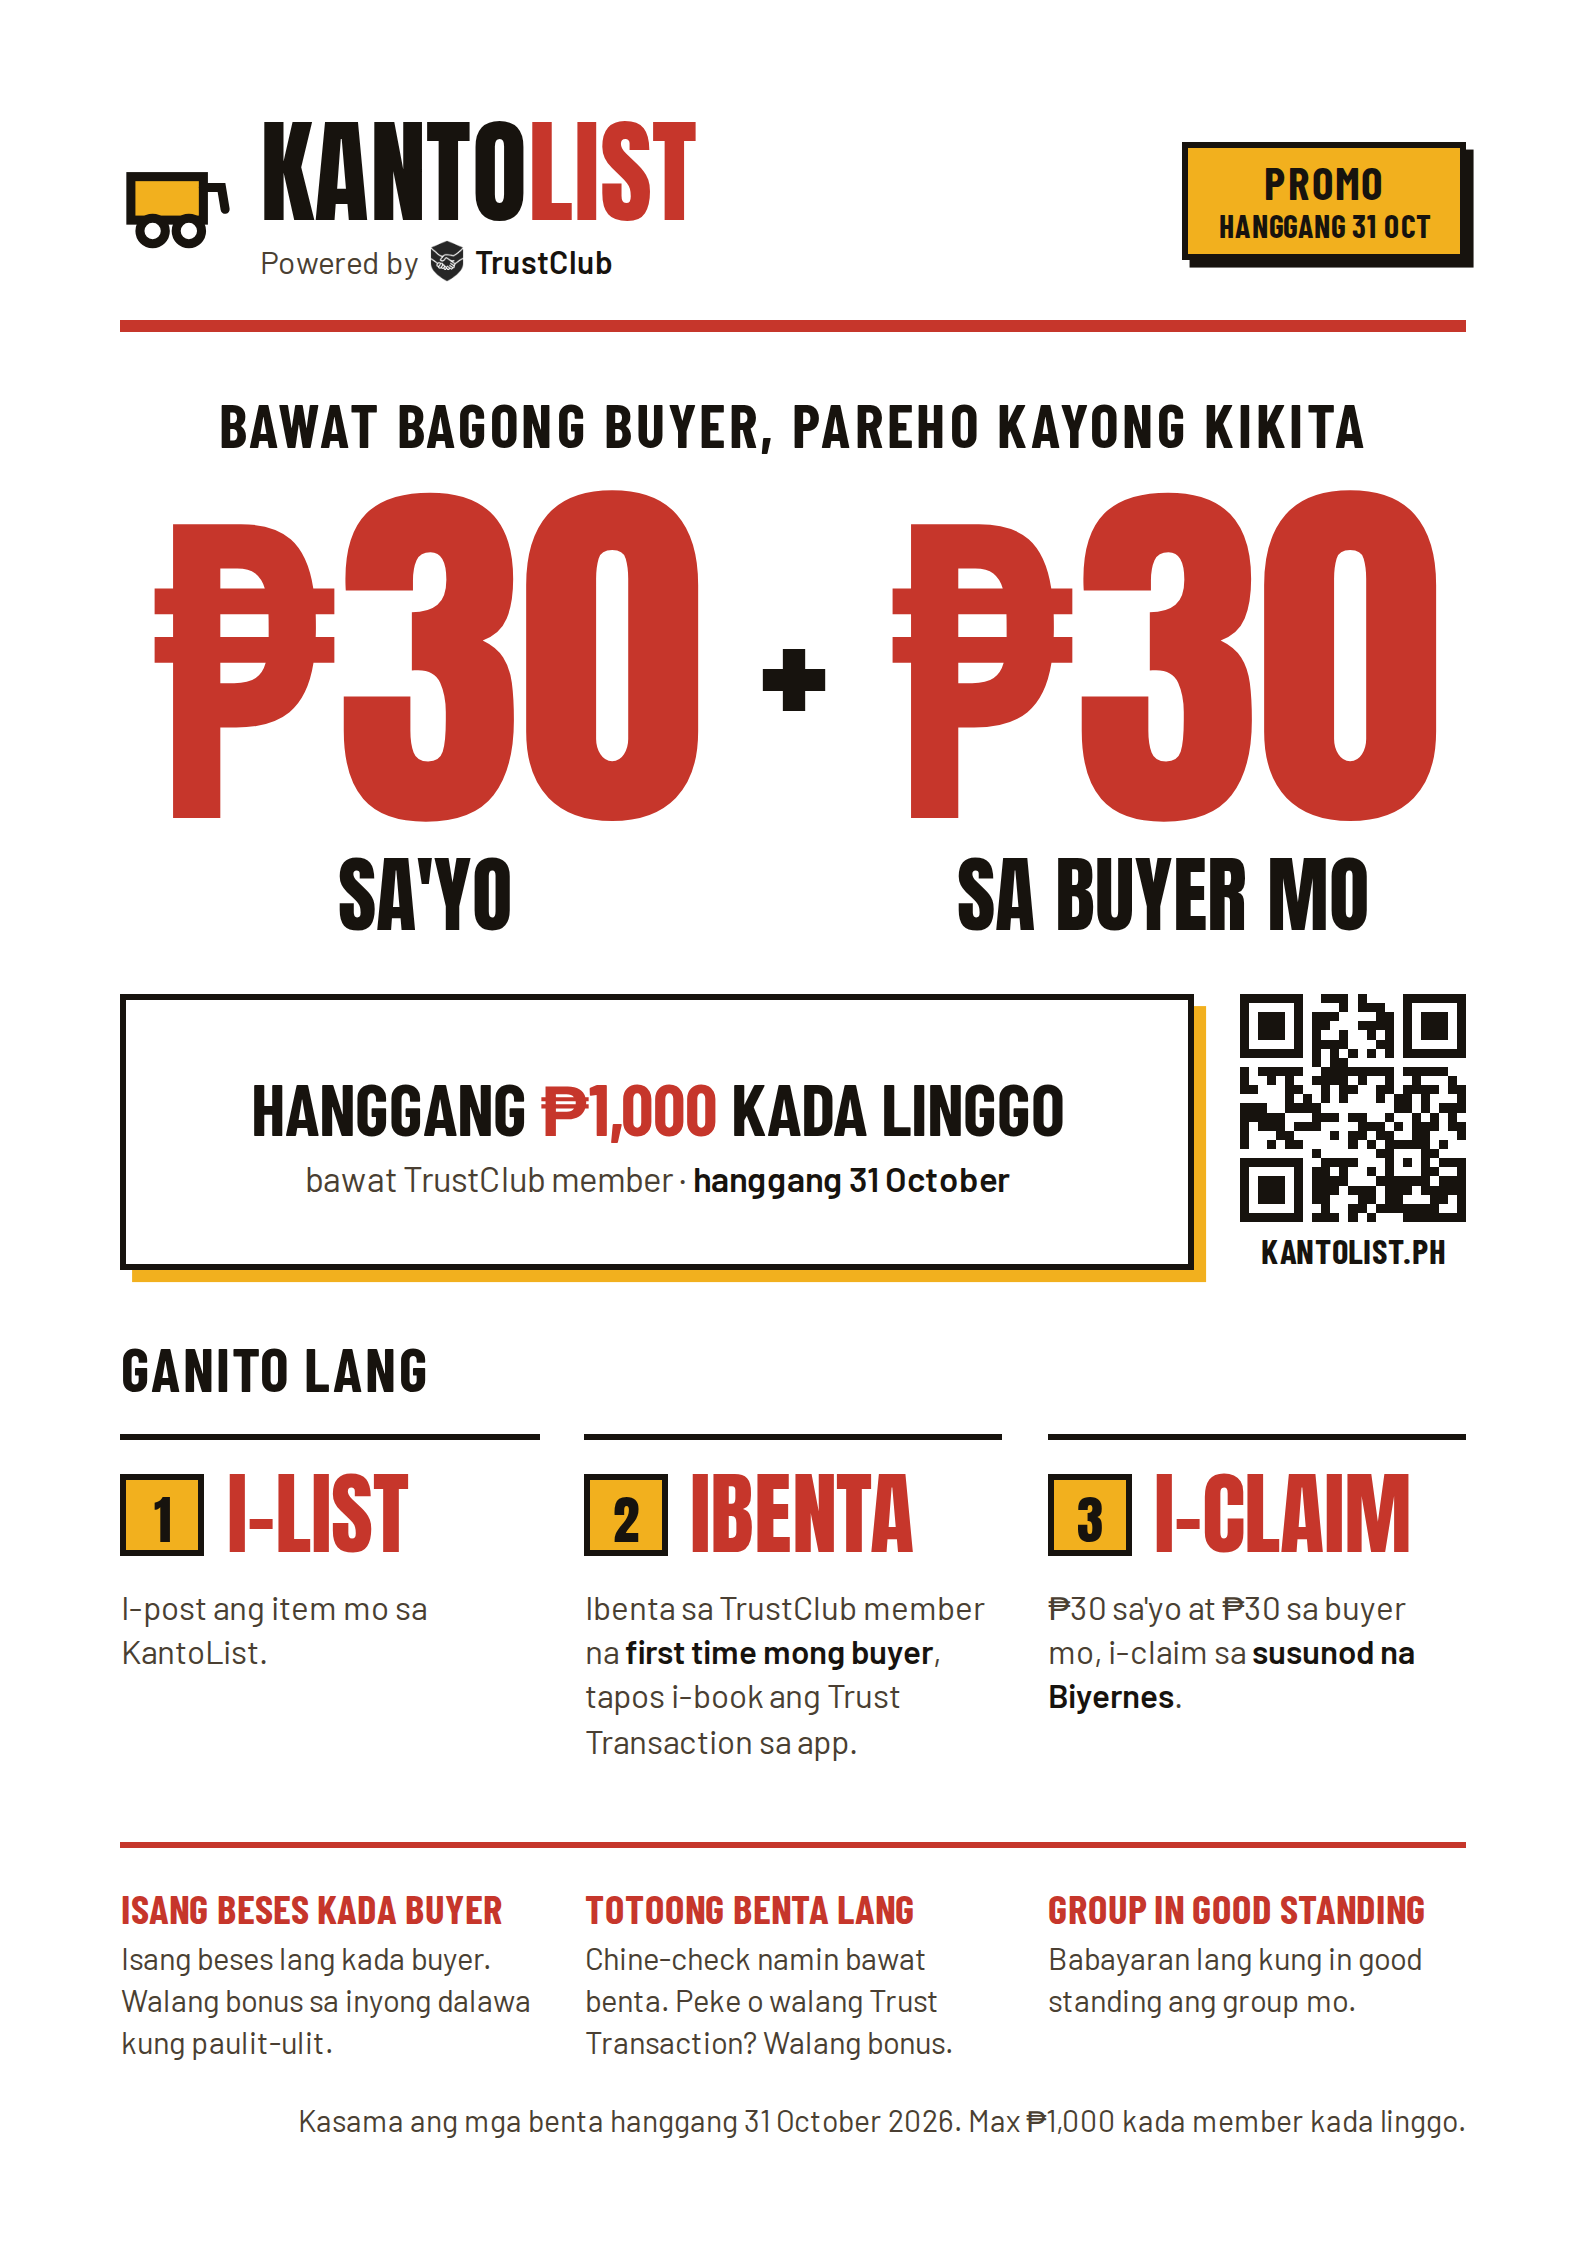
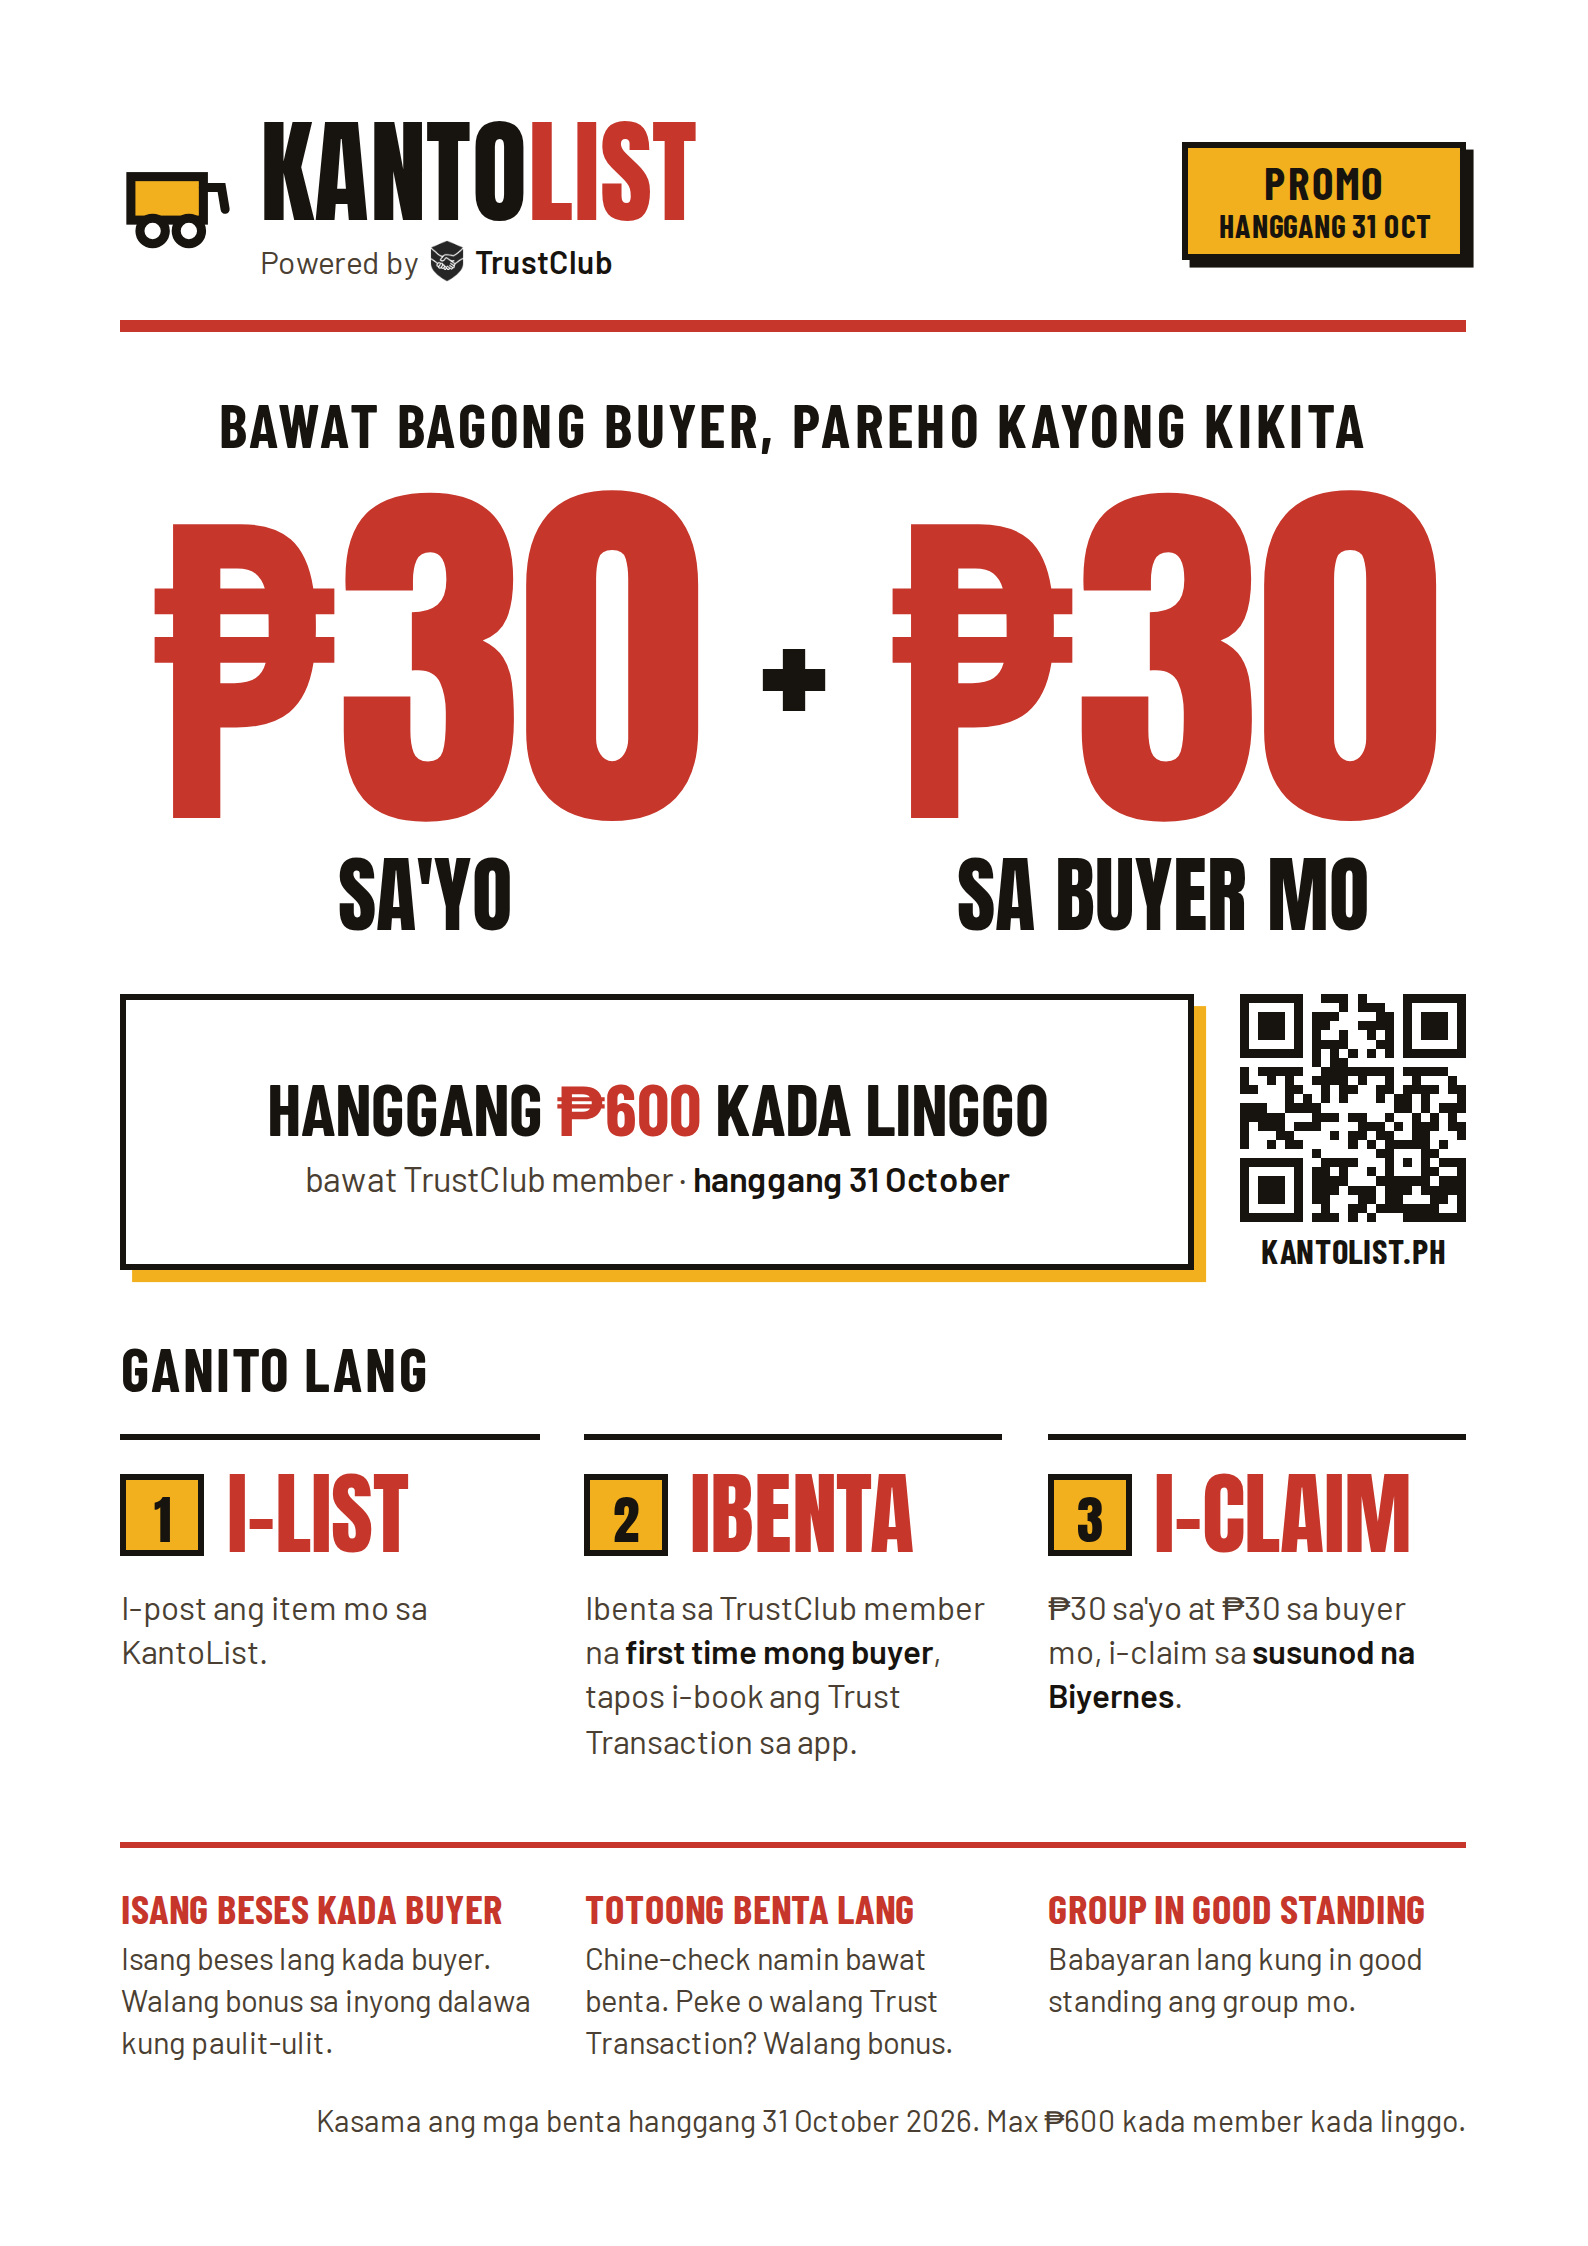
Flyer: lower the weekly cap to ₱600 per member
Both languages updated together.

Claude-Session: https://claude.ai/code/session_01T2zHHYc96xzAHMdnr65ePF

Changed region(s): [[0.1543, 0.4675, 0.6788, 0.5298], [0.1851, 0.935, 0.6788, 0.9662]]

diff --git a/marketing/flyers/sale-bonus-a4.html b/marketing/flyers/sale-bonus-a4.html
@@ -110,7 +110,7 @@
 
   <div class="cap-row">
     <section class="cap">
-      <div class="label" data-t="cap">Up to <em>₱1,000</em> a week</div>
+      <div class="label" data-t="cap">Up to <em>₱600</em> a week</div>
       <p data-t="capSub">per TrustClub member · <b>until 31 October</b></p>
     </section>
     <a class="qr" href="https://kantolist.ph">
@@ -166,7 +166,7 @@
   </section>
 
   <footer>
-    <span data-t="footer">Promo covers sales made until 31 October 2026. Max ₱1,000 per member per week.</span>
+    <span data-t="footer">Promo covers sales made until 31 October 2026. Max ₱600 per member per week.</span>
   </footer>
 </div>
 <script>
@@ -182,7 +182,7 @@ const COPY = {
     kicker: 'Sell to a new buyer and you both earn',
     toYou: 'to you',
     toBuyer: 'to your buyer',
-    cap: 'Up to <em>₱1,000</em> a week',
+    cap: 'Up to <em>₱600</em> a week',
     capSub: 'per TrustClub member · <b>until 31 October</b>',
     how: 'How it works',
     s1: 'List',
@@ -197,7 +197,7 @@ const COPY = {
     r2Body: 'We check every sale. No Trust Transaction, or a fake sale, means no bonus.',
     r3: 'Group in good standing',
     r3Body: 'Paid only if your group is in good standing.',
-    footer: 'Promo covers sales made until 31 October 2026. Max ₱1,000 per member per week.',
+    footer: 'Promo covers sales made until 31 October 2026. Max ₱600 per member per week.',
   },
   tl: {
     title: 'KantoList Sale Bonus (Taglish)',
@@ -206,7 +206,7 @@ const COPY = {
     kicker: 'Bawat bagong buyer, pareho kayong kikita',
     toYou: "sa'yo",
     toBuyer: 'sa buyer mo',
-    cap: 'Hanggang <em>₱1,000</em> kada linggo',
+    cap: 'Hanggang <em>₱600</em> kada linggo',
     capSub: 'bawat TrustClub member · <b>hanggang 31 October</b>',
     how: 'Ganito lang',
     s1: 'I-list',
@@ -221,7 +221,7 @@ const COPY = {
     r2Body: 'Chine-check namin bawat benta. Peke o walang Trust Transaction? Walang bonus.',
     r3: 'Group in good standing',
     r3Body: 'Babayaran lang kung in good standing ang group mo.',
-    footer: 'Kasama ang mga benta hanggang 31 October 2026. Max ₱1,000 kada member kada linggo.',
+    footer: 'Kasama ang mga benta hanggang 31 October 2026. Max ₱600 kada member kada linggo.',
   },
 };
 (function () {

diff --git a/marketing/flyers/README.md b/marketing/flyers/README.md
@@ -22,7 +22,7 @@ Preview in a browser with `sale-bonus-a4.html#tl` (or `?lang=tl`).
 
 | Flyer | What |
 | --- | --- |
-| `sale-bonus-a4` | ₱30 to seller + ₱30 to buyer per new buyer, max ₱1,000/week, until 31 Oct 2026 |
+| `sale-bonus-a4` | ₱30 to seller + ₱30 to buyer per new buyer, max ₱600/week, until 31 Oct 2026 |
 
 Fonts are bundled in `fonts/` (Anton, Barlow, Barlow Condensed incl. the ₱
 glyph) so a render does not depend on Google Fonts. `qr-kantolist.svg` points
